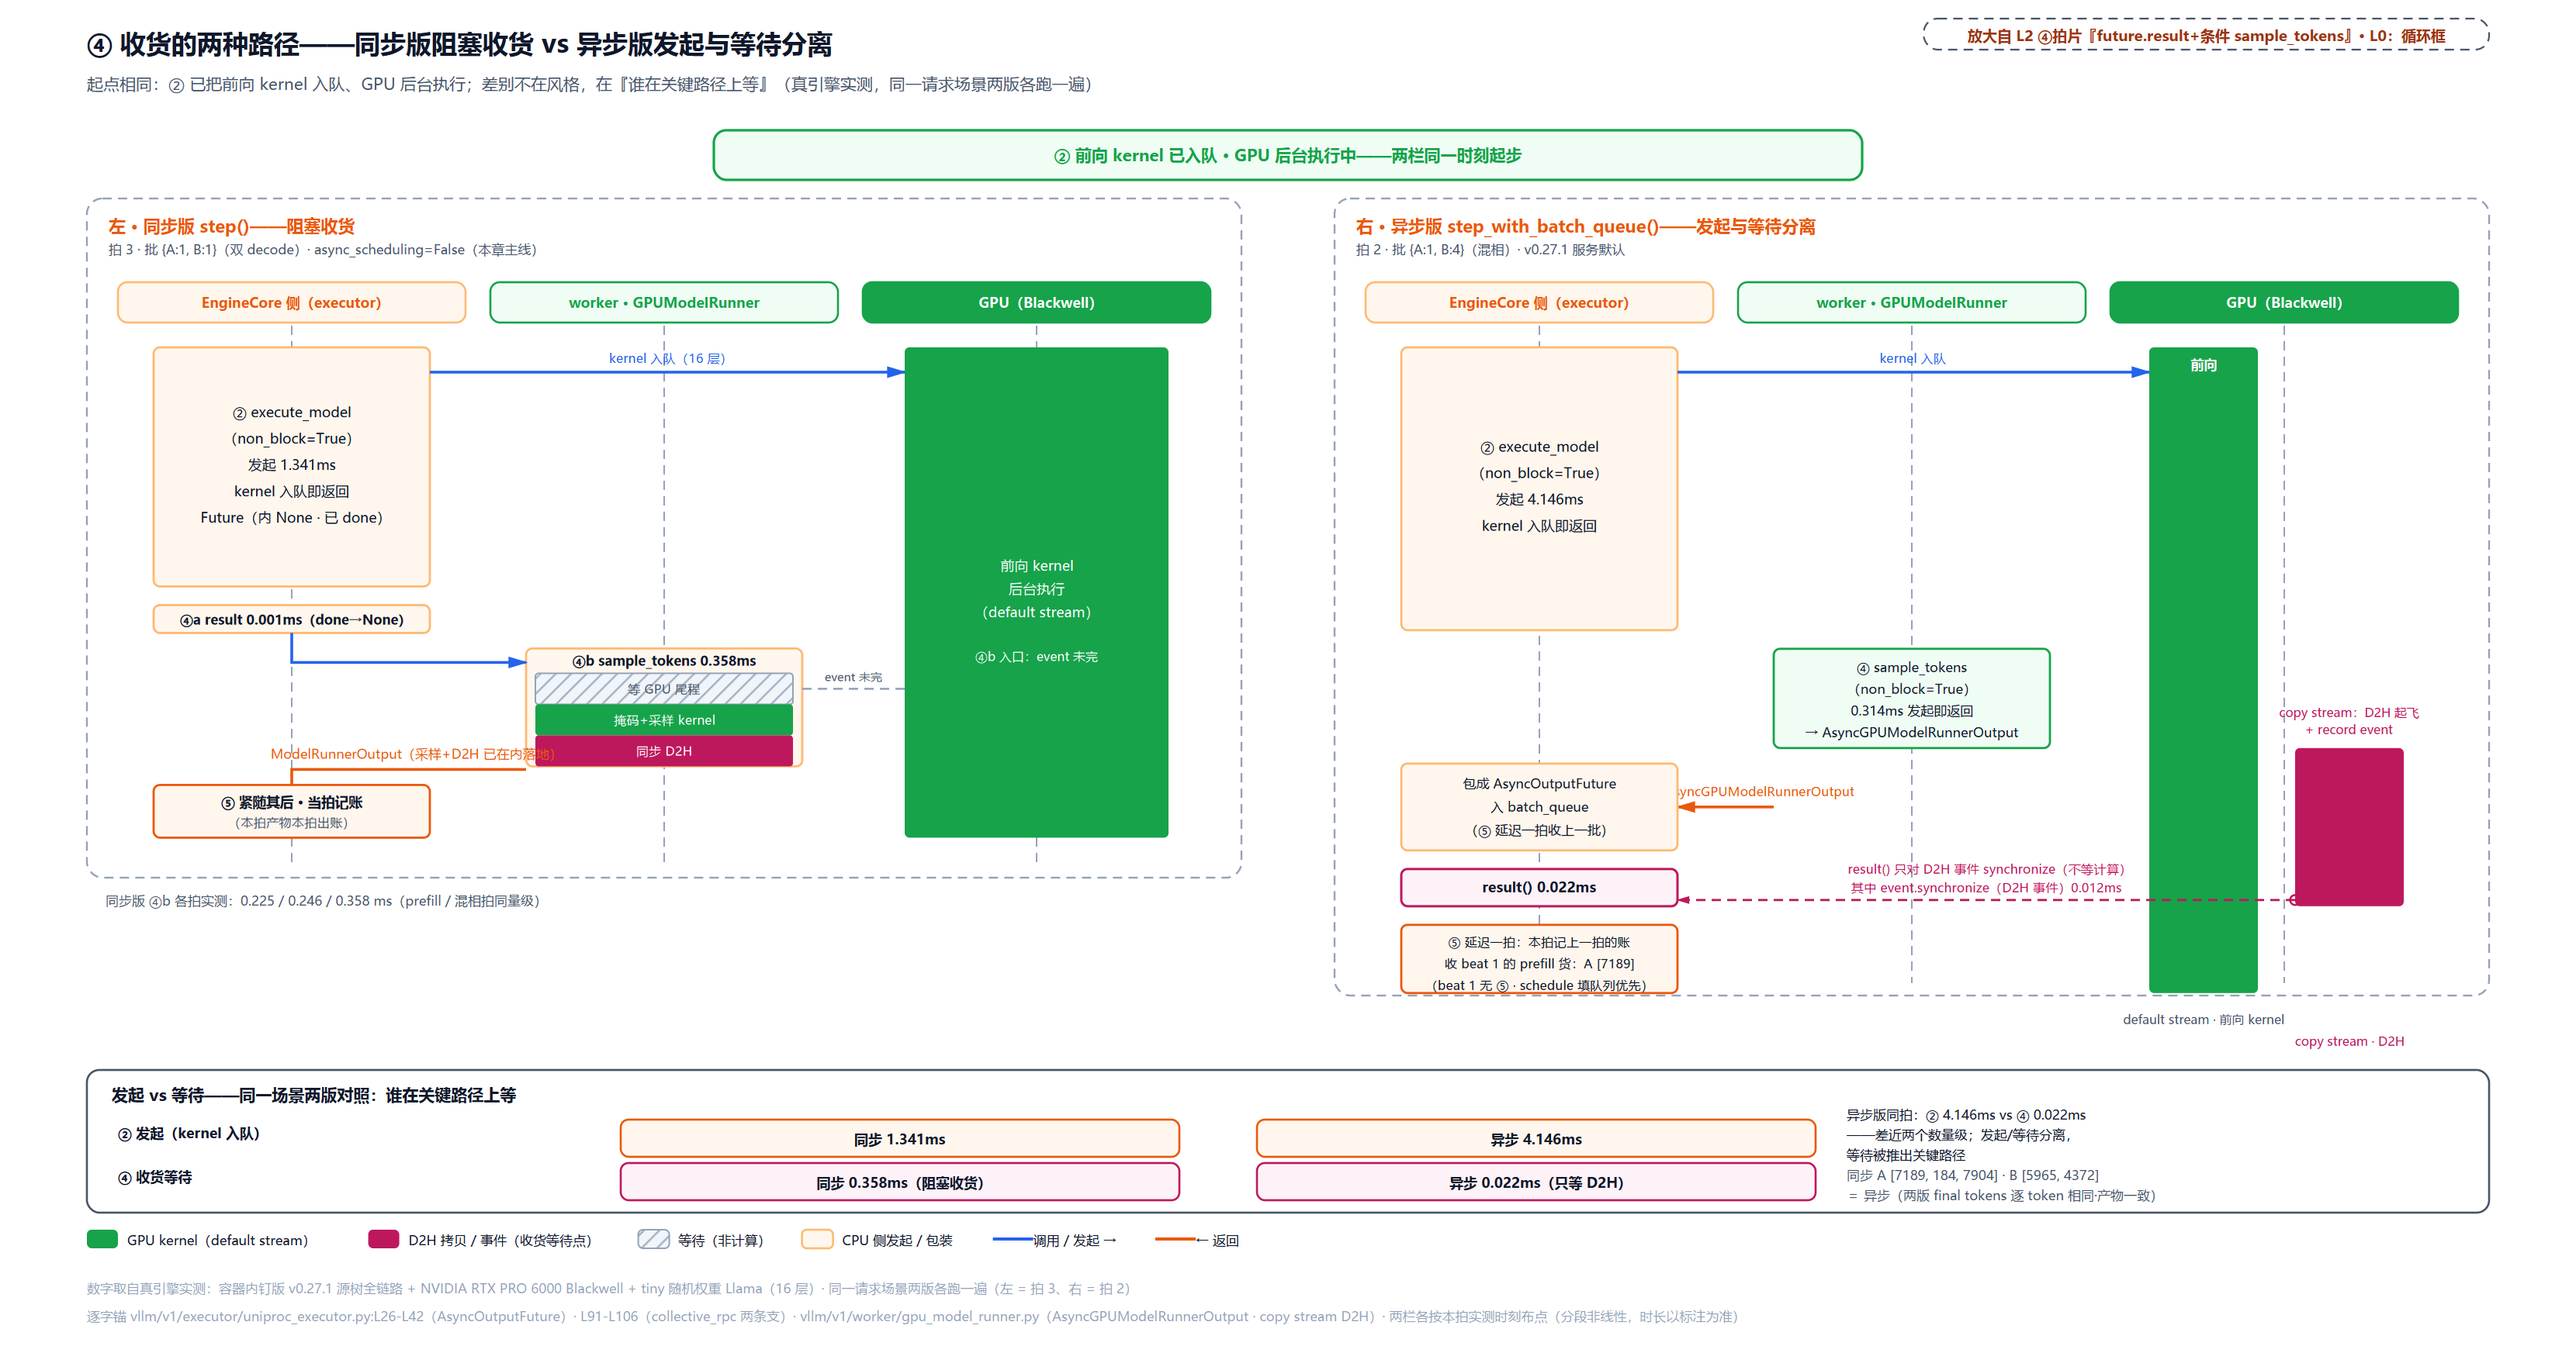
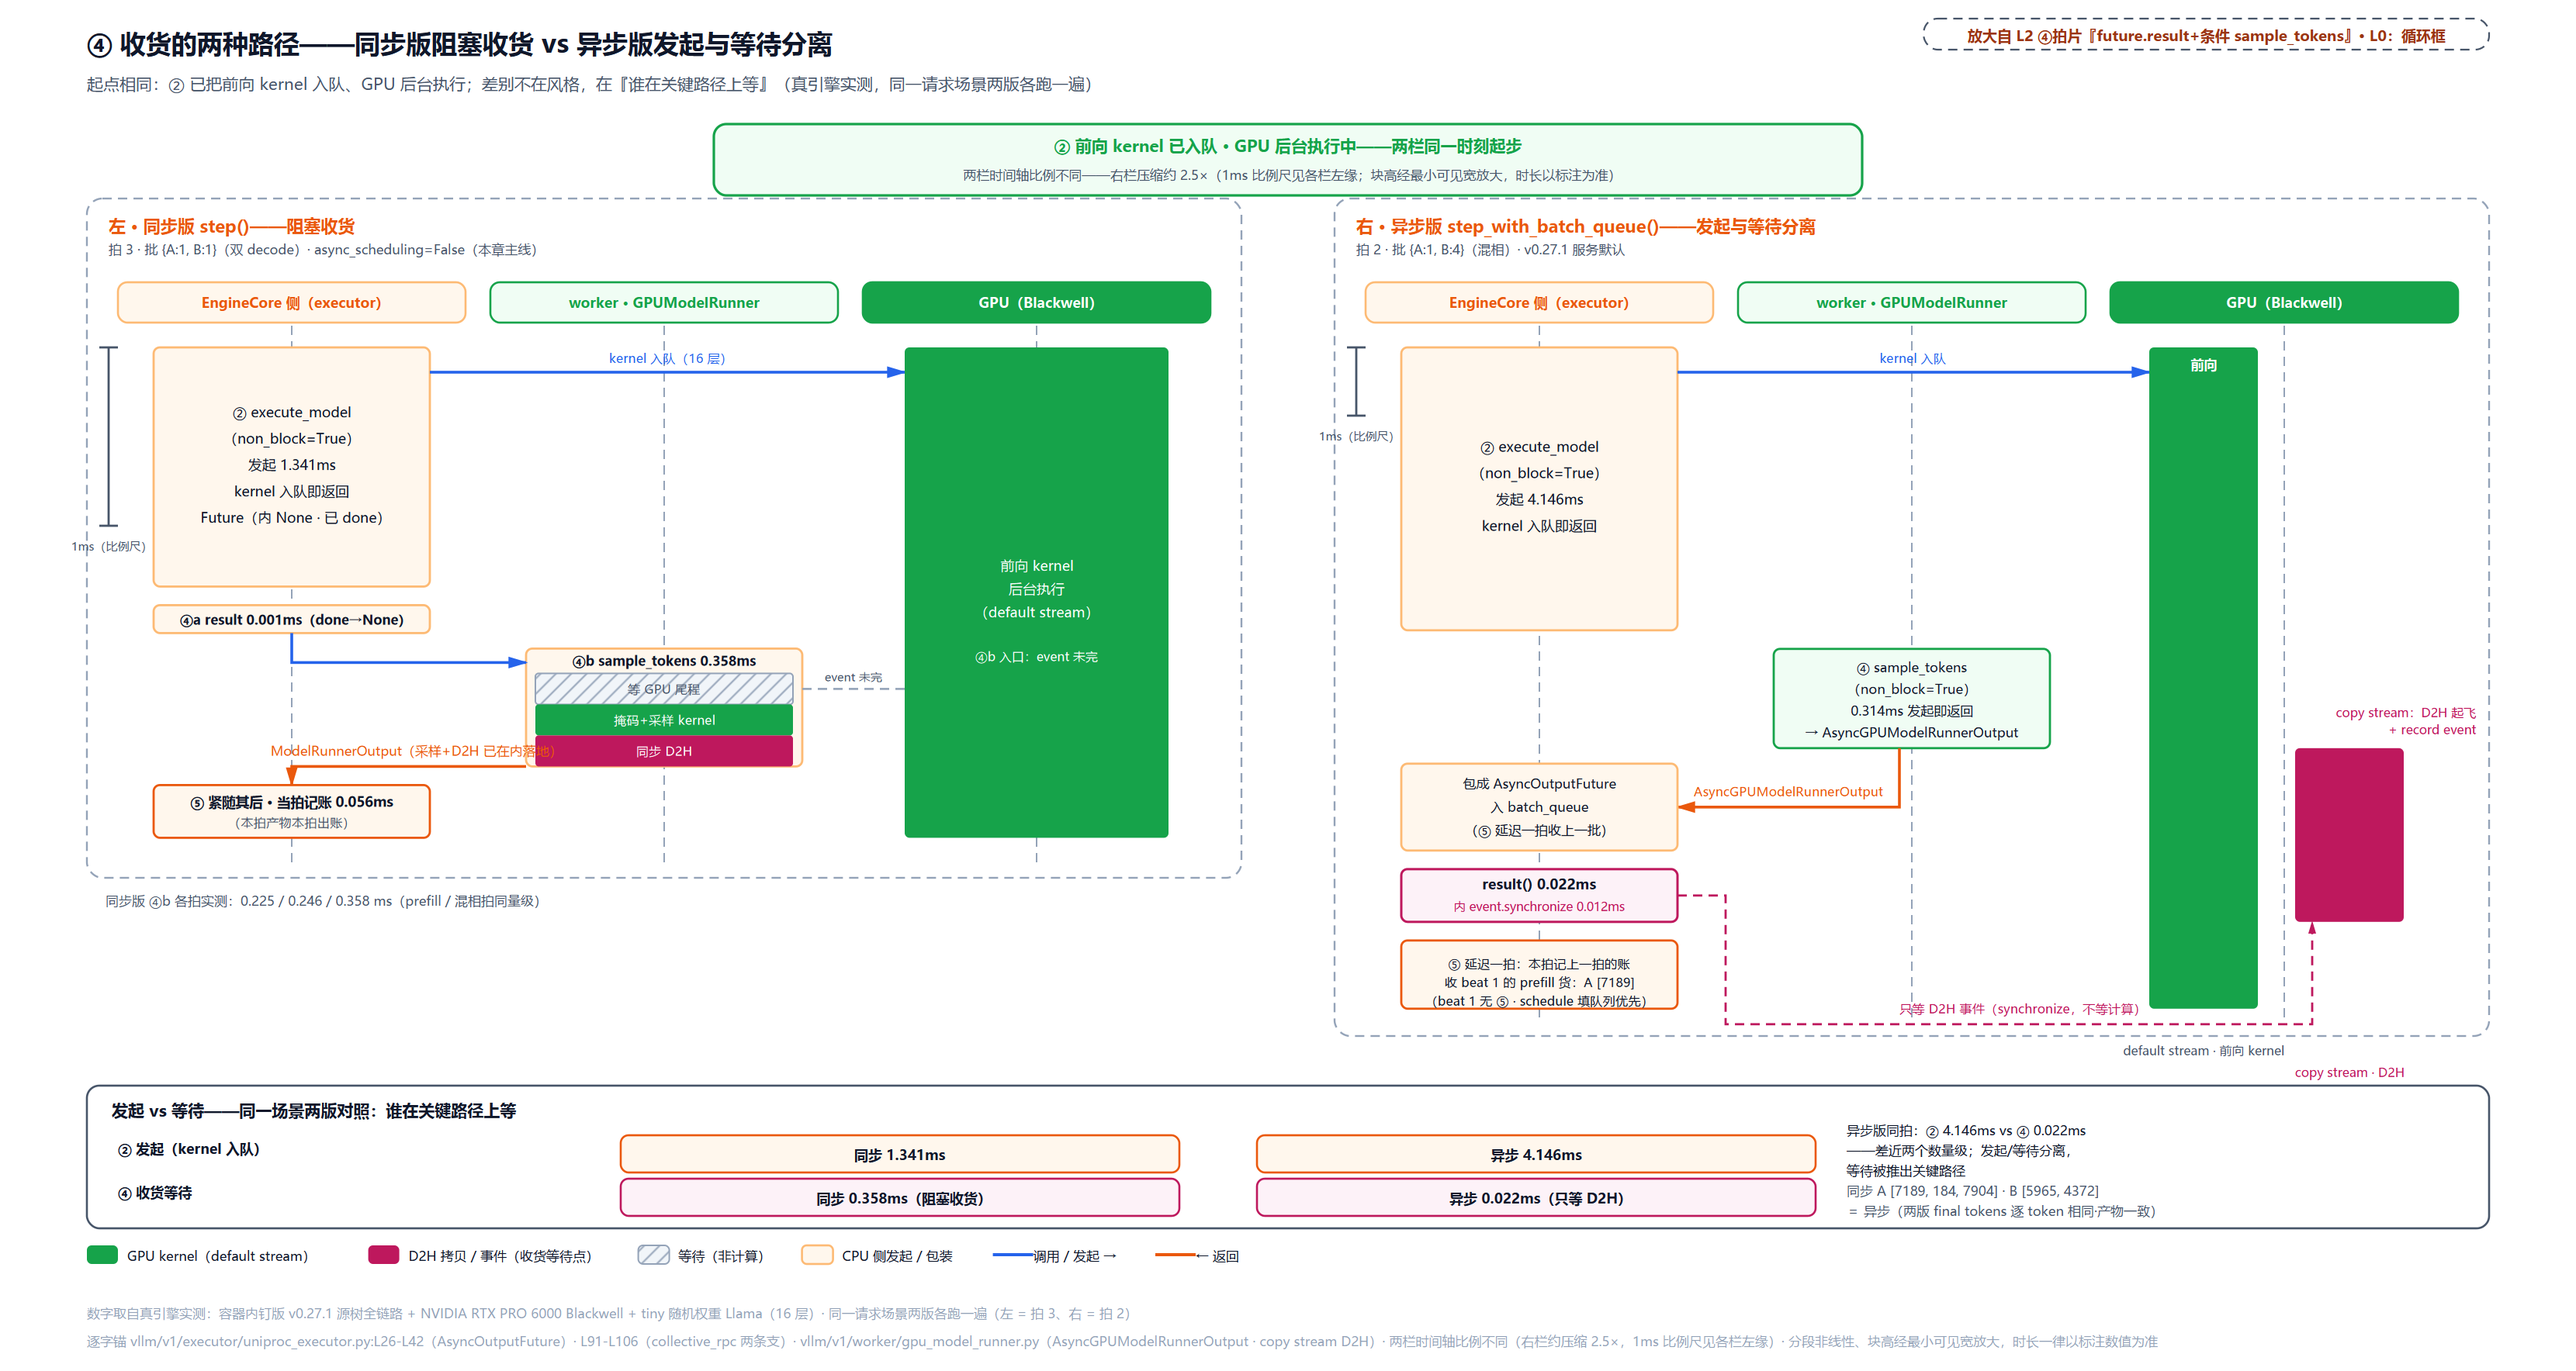
fix(v3 ch9 第二轮): 读者三条+图两处——m3 表拆分/异步后移/边界句/比例尺/悬空箭头
真实读者对修订版的三条(全部核实属实):
1 m3 表同步/异步混呈且异步概念先于介绍被消费 → 拆表:同步四行转分步散文,
  异步两行移驻「异步版对照」AsyncOutputFuture 讲完之后(标注 host 契约演示
  与 0.25s 注入延迟),explainer m3 同步改形(纯静态三列表挂 trace)
2 异步调度全貌边界缺声明 → 节首边界句+第 12 章链接,节标题改「worker 面的
  契约，逐手验」
3 流程类不用表格 → 流程全散文化,表只留静态对账
另:图 B 两栏比例尺(1ms 标尺+右栏压缩 2.5× 声明)+悬空箭头三处修(品红
绕底路由/④→wrap 肘形/④b→⑤ 贴边),Lead 亲眼看图验收,manifest 三轮判定链。
七 linter+图 linter 全绿,破折号 32。

diff --git a/instances/vllm/artifacts-v3/ch09-engine-core-step-loop/narrative/chapter.md b/instances/vllm/artifacts-v3/ch09-engine-core-step-loop/narrative/chapter.md
@@ -569,21 +569,21 @@ class ExecuteModelState(NamedTuple):  # L437
 
 一置一清、互斥推进：`execute_model` 入口查旧值非 None 即炸，`sample_tokens` 入口先解包立即置 None，「前向算完、采样欠着」的中间态因此永不重叠，误序被入口防御拦死。掩码应用（`apply_grammar_bitmask`）恰在 `_sample` 之前，这个位置是下一节的全部内容。
 
-### 实测：契约三面各验一手（配套精简版）
+### 实测：worker 面的契约，逐手验（配套精简版）
 
-配套精简版把三面各跑一遍（worker 面、executor 面、异步面；贪婪采样、词表 8；D2H 事件在 host 上用线程事件代行，语义同 `get_output()`「阻塞至拷贝完成」，CUDA 拷贝流本体属执行篇）：
+配套精简版直接驱动 worker，把两段式契约的手感逐手过一遍（贪婪采样、词表 8）。边界先说清：异步调度系统的全貌（batch_queue、延迟一拍收货、`step_with_batch_queue`）归 Part III 末章[第 12 章](../../ch12-async-scheduling/narrative/chapter.md)；本节与下一节只验两段式契约本身，worker 面与 executor 面在同步版里验，异步面只验「发起与等待分离」这一件事。静态账一张（动作、暂存态、返回三列；流程怎么走到下一步，读下面的散文）：
 
 <!-- trace: m3 -->
-| 阶段 | 动作 | execute_model_state | 返回 | 判定 |
-|---|---|---|---|---|
-| ② 第一段 | execute_model(批{'req-1': 3}) | 暂存 10 字段（logits 1×8） | None | 前向算完、采样欠着 |
-| 误用防御 | 再来一次 execute_model | 非 None（上一拍未消费） | RuntimeError：State error（原文即上引源码） | worker 自己炸，不产出错数据 |
-| ④ 第二段 | sample_tokens(None) | 解包→清 None | sampled=[[1]]（argmax=favorite 1） | 掩码位→贪心采样，态已清 |
-| 再次 ② | 消费后再 execute_model（批含新 req-2） | 重新暂存（新批） | None | 合法：sampled=[[1], [2]]（req-1 续 decode + req-2 新入批） |
-| ④ 异步半边 | executor.sample_tokens(non_block=True) | — | AsyncOutputFuture（done=False） | result() 只等 D2H 事件，不等计算 |
-| D2H 完成 | 挂起 0.25s 后事件置位 | — | 置位后 0.142ms 返回；二次 result() 0.008ms | 阻塞期间无返回=True；采样=[[4]] |
+| 动作 | execute_model_state | 返回 |
+|---|---|---|
+| execute_model(批{'req-1': 3}) | 暂存 10 字段（logits 1×8） | None |
+| 再来一次 execute_model | 非 None（上一拍未消费） | RuntimeError：State error |
+| sample_tokens(None) | 解包→清 None | sampled=[[1]]（argmax=favorite 1） |
+| 消费后再 execute_model（批含新 req-2） | 重新暂存（新批） | None |
 
-不变式（**暂存态不变式**）：`execute_model_state` 非 None 当且仅当恰有一拍前向的采样欠着；两次 `execute_model` 之间必恰有一次 `sample_tokens`。基例是初始 None；归纳步就是上面那对入口防御，非空时引擎不可能发起第二拍前向。等待账也顺表可见：异步面事件未置位时 `result()` 阻塞 0.25s 零返回（这 0.25s 是脚本注入的拷贝延迟；真实引擎里这段等待罩不罩住前向余尾，取决于取货时机——当拍发起后立刻取就罩着，batch_queue 版延迟一拍才取、常常已就绪，见下一小节实测），置位后 0.142ms 交出，二次 `result()` 0.008ms（Future 已 done，纯缓存读）。「只等搬运」的真实含义：等的墙钟不短（罩着前向余尾），等的方式便宜（挂起、零 CPU、释放 GIL），且等待排在③之后，亚毫秒只是就绪后的取货价。
+逐手读（配套精简版 host 实测）。**第一手，②暂存**：对批 {'req-1': 3} 调 `execute_model`，worker 把 10 个字段的中间结果暂存进 `ExecuteModelState`（logits 1×8）、返回 None，「前向算完、采样欠着」成立。**第二手，误用防御**：暂存未消费时再来一次 `execute_model`，worker 当场炸出 `RuntimeError: State error: sample_tokens() must be called after execute_model() returns None.`（上引源码原文），不产出错数据。**第三手，④消费**：`sample_tokens(None)` 解包暂存、立即清 None，掩码位之后贪心采样交出 `sampled=[[1]]`（argmax 命中 favorite 1），态已清。**第四手，复用合法**：消费之后再 `execute_model`（批含新 req-2），重新暂存新批、返回 None，合法——随后采样得 `sampled=[[1], [2]]`（req-1 续 decode + req-2 新入批），「一置一清」的循环从这里接上。
+
+不变式（**暂存态不变式**）：`execute_model_state` 非 None 当且仅当恰有一拍前向的采样欠着；两次 `execute_model` 之间必恰有一次 `sample_tokens`。基例是初始 None；归纳步就是上面那对入口防御，非空时引擎不可能发起第二拍前向——四手正好把「置 →（防御）→ 清 → 再置」的合法循环走通一遍。
 
 两段式的故障兜底补一笔：中间态出错时，`step()` 里那个 `log_error_detail` 上下文会连带 `dump_engine_exception` 把两段各自的状态现场倒出来（`core.py:L493-L507`）。「中间态出错归属变模糊」这个代价，用专门的诊断出口把模糊钉回去。
 
@@ -612,7 +612,9 @@ class AsyncOutputFuture(Future):
         return super().result()
 ```
 
-`result()` 惰性调 `async_output.get_output()`：那是在等 D2H 拷贝事件，不是在等计算。真引擎把同一对请求在两版引擎上各跑一遍（「一拍五段」一节的实测环境），「发起与等待分离」直接量了出来：
+`result()` 惰性调 `async_output.get_output()`：那是在等 D2H 拷贝事件，不是在等计算。配套精简版也把这一手演了一遍（host 契约演示：D2H 用线程事件代行，语义同 `get_output()` 的「阻塞至拷贝完成」，CUDA 拷贝流本体属执行篇）。`executor.sample_tokens(non_block=True)` 交回 `AsyncOutputFuture`（done=False）；事件未置位时 `result()` 挂起，脚本注入 0.25s 的拷贝延迟、期间零返回；事件置位后 0.142ms 交出结果（采样 [[4]]），二次 `result()` 只剩 0.008ms（Future 已 done，纯缓存读）。「只等搬运」的真实含义在这里看得分明：等的方式便宜（挂起、零 CPU、释放 GIL）、等待排在③之后，亚毫秒只是就绪后的取货价；至于等的墙钟罩不罩住前向余尾，取决于取货时机——当拍发起后立刻取就罩着，batch_queue 版延迟一拍才取、常常已就绪（下面真引擎的数字正是后者）。
+
+真引擎把同一对请求在两版引擎上各跑一遍（「一拍五段」一节的实测环境），「发起与等待分离」直接量了出来：
 
 - 异步版拍 2 的④ `sample_tokens(non_block=True)` 0.314ms 发起即返回；之后的 `result()` 只等 0.022ms，其中 D2H 事件同步仅 0.012ms。
 - 同一拍的②发起 4.146ms，④等待 0.022ms，差近两个数量级。「提交即拿提货单」不是修辞，是实测。
